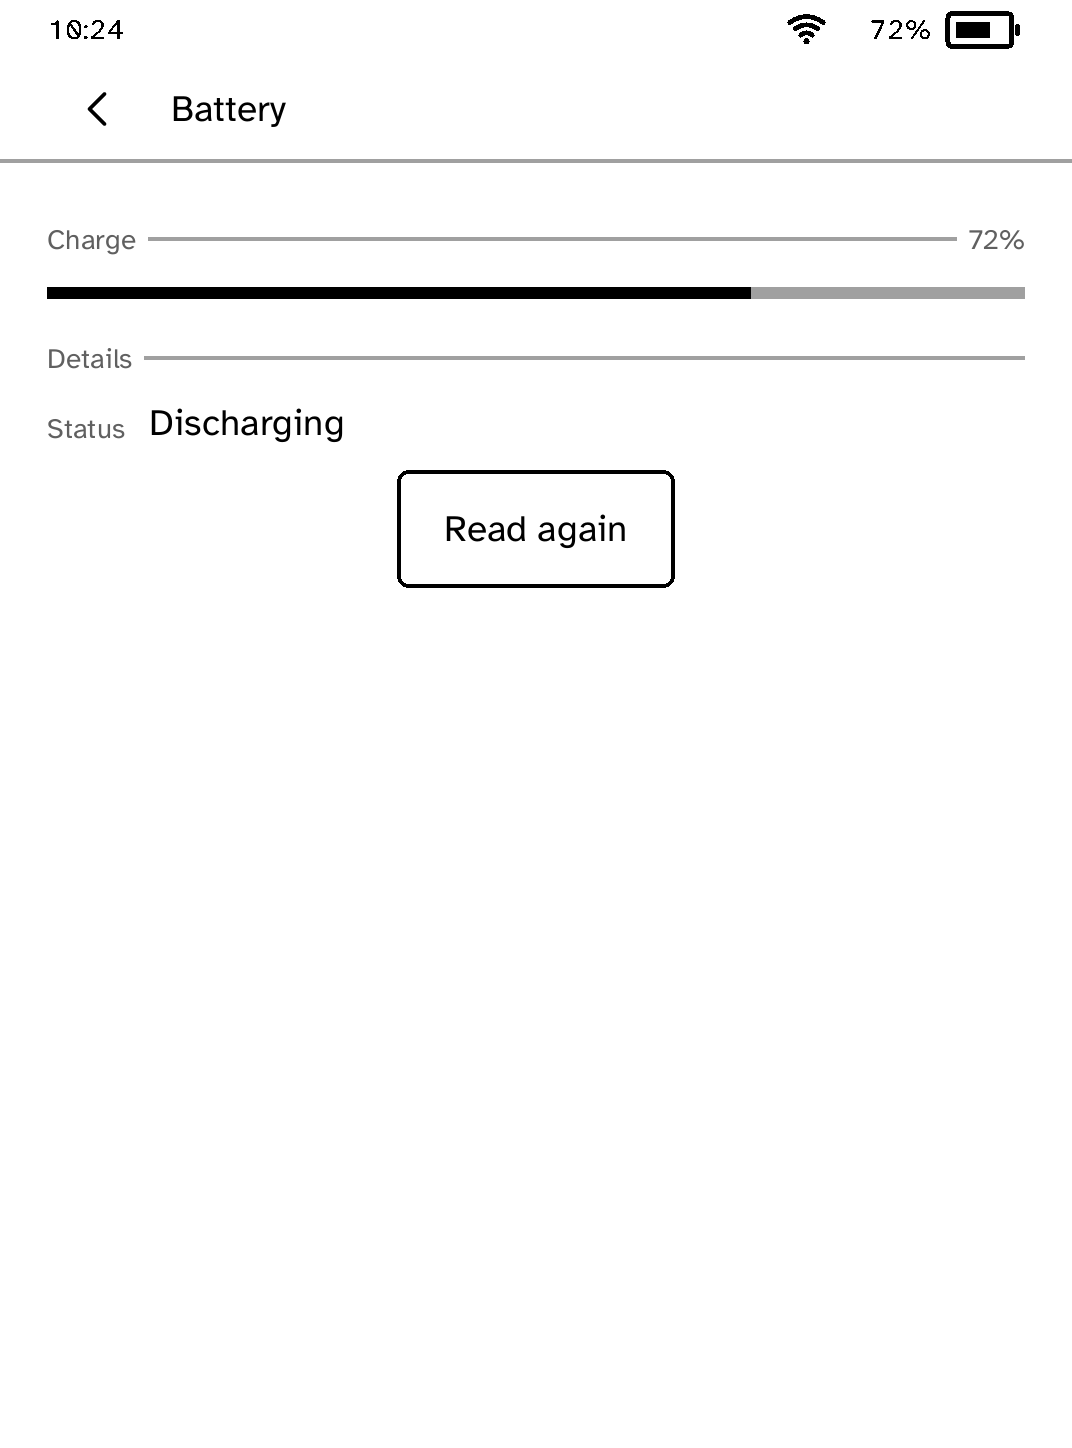
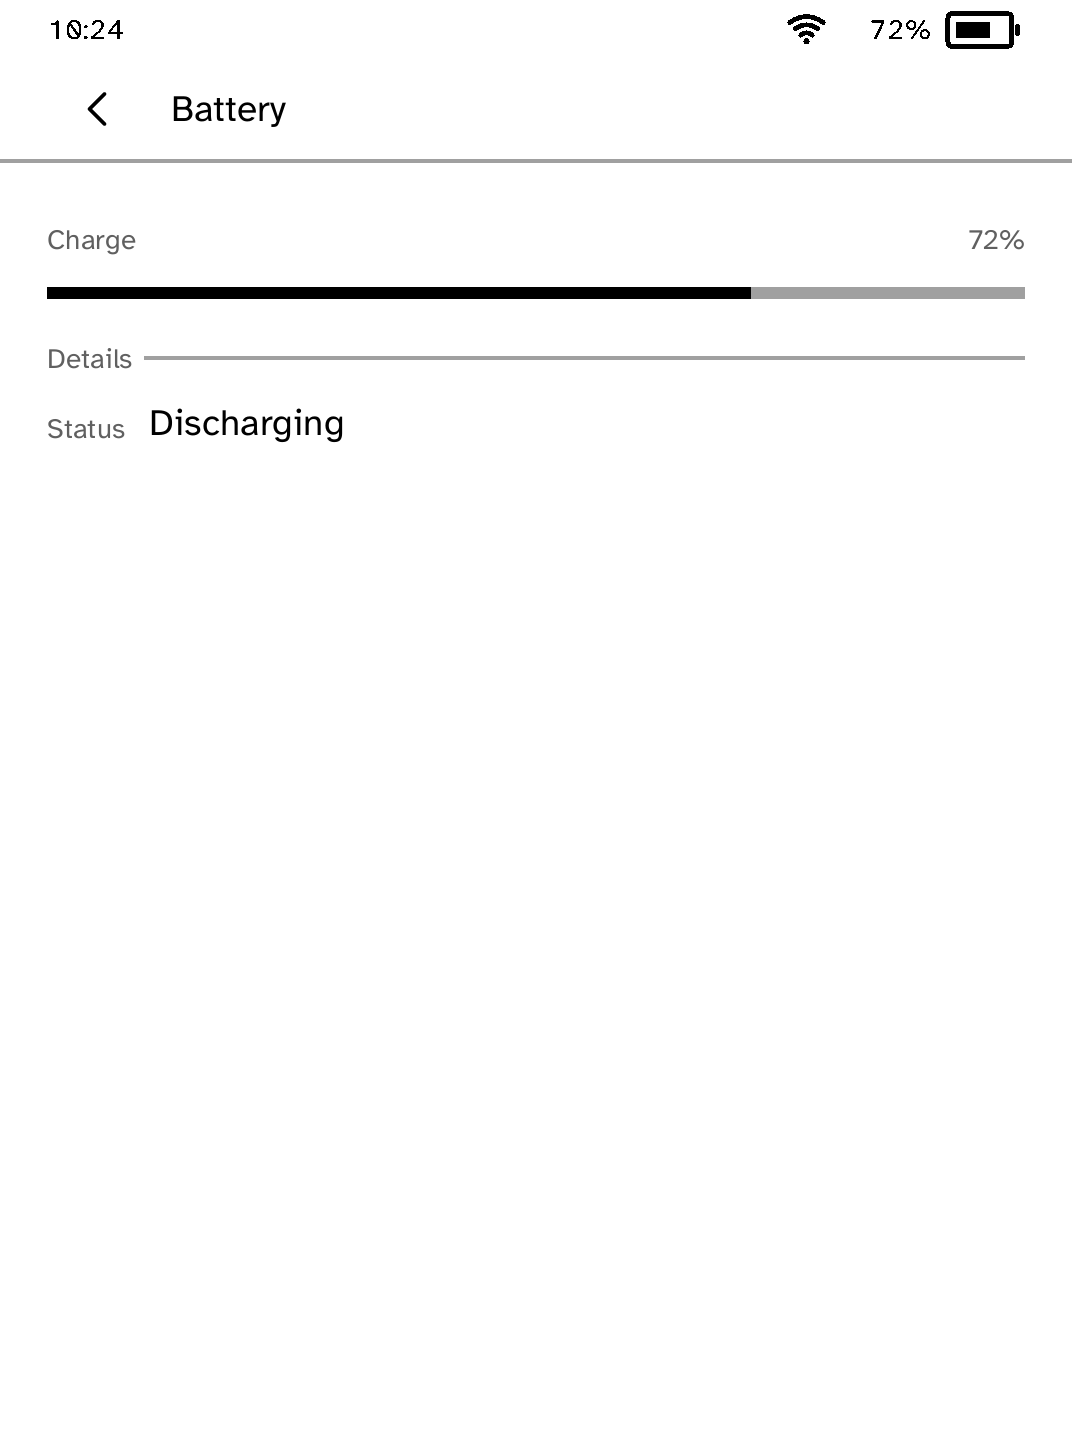
Drop Settings' developer profile line and its needless refresh marks
About listed "Profile SIMULATOR:clara-bw-391", the runtime's own name
for the hardware profile, which says nothing the model and device code
do not. It is left off.

About and Battery both carried a refresh mark in the bar. Nothing on
About changes while it is open, and the battery is now read when its
screen opens and again whenever Settings comes back to the front, so
neither needs one. A reading that failed still offers Read again on
its banner.

Changed region(s): [[0.3694, 0.3108, 0.5849, 0.404], [0.6157, 0.3419, 0.6465, 0.404]]

diff --git a/examples/settings/src/main.rs b/examples/settings/src/main.rs
@@ -1035,13 +1035,13 @@ impl Settings {
     /// reader whose driver is thinner gets a shorter list, which is honest,
     /// rather than a column of dashes.
     fn battery(&self) -> Screen {
-        // Reading again is the bar's refresh mark, as it is in the Store and
-        // Feeds. It was a button centred under the facts, the one thing on
-        // the screen not set from the left, and it moved down whenever the
-        // list grew. A failed reading also carries the way to read again.
+        // No refresh mark in the bar. The gauge is read when this screen
+        // opens and again whenever Settings comes back to the front, so a
+        // mark that read it a third time only asked the owner to do the
+        // reader's job. A reading that failed carries the way to read again
+        // on its banner, where the failure is.
         let mut screen = ScreenBuilder::new("settings-battery")
             .top_bar("Battery")
-            .top_bar_glyph(RESCAN, "Read again", Glyph::Refresh)
             .owns_back(true);
         let trouble = self.banner_for(Topic::Battery);
         if let Some(trouble) = &trouble {
@@ -1116,16 +1116,16 @@ impl Settings {
         if let Some(address) = &self.address {
             facts.push(("Wi-Fi address".to_owned(), address.clone()));
         }
-        let mut support: Vec<(String, String)> = vec![
-            ("Profile".to_owned(), identity.profile_id.clone()),
-            (
-                "Screen".to_owned(),
-                format!(
-                    "{} × {} pixels",
-                    identity.panel_width, identity.panel_height
-                ),
+        // The runtime's own name for the hardware profile is left off. It
+        // is a developer's identifier ("SIMULATOR:clara-bw-391" in the
+        // simulator) that says nothing the model and device code do not.
+        let mut support: Vec<(String, String)> = vec![(
+            "Screen".to_owned(),
+            format!(
+                "{} × {} pixels",
+                identity.panel_width, identity.panel_height
             ),
-        ];
+        )];
         if identity.device_code != 0 {
             support.push(("Device code".to_owned(), identity.device_code.to_string()));
         }
@@ -1186,11 +1186,10 @@ impl Settings {
     }
 
     fn about_page_screen(&self, parts: &[usize], page: usize, pages: usize) -> Screen {
-        // The same refresh mark as Battery, reachable from every page rather
-        // than from the foot of the last one.
+        // No refresh mark: nothing on this page changes while it is open.
+        // A failed read carries Read again on its banner.
         let mut screen = ScreenBuilder::new("settings-about")
             .top_bar("About")
-            .top_bar_glyph(RESCAN, "Read again", Glyph::Refresh)
             .owns_back(true);
         let trouble = self.banner_for(Topic::About);
         if let Some(trouble) = &trouble {
@@ -1578,6 +1577,19 @@ impl KoboApp for Settings {
     /// application running on it, and it wears the colour of the logo.
     fn accent(&self) -> Option<kobo_sdk::Accent> {
         Some(kobo_sdk::Accent::Cobalt)
+    }
+
+    /// The battery screen reads the gauge again whenever Settings comes
+    /// back to the front or the reader wakes, which is what its refresh mark
+    /// used to be pressed for.
+    fn on_foreground(&mut self, context: &mut Context) {
+        if self.view == View::Battery {
+            context.device().read_battery_detail();
+        }
+    }
+
+    fn on_resume(&mut self, context: &mut Context) {
+        self.on_foreground(context);
     }
 
     fn on_start(&mut self, context: &mut Context) {
@@ -2651,7 +2663,6 @@ mod tests {
         let drawn = format!("{:?}", screen.nodes);
         for needle in [
             "Kobo Clara BW",
-            "CLARA_BW_391",
             "391",
             "4.41.23145",
             "5.10.117",
@@ -2703,11 +2714,14 @@ mod tests {
         let issues = screen.validate(&CLARA_BW_METRICS);
         assert!(issues.is_empty(), "{issues:?}");
         let layout = screen.layout_with(&CLARA_BW_METRICS, &Chrome::with_back(true));
-        assert!(layout.rect_of_action(action_id(RESCAN)).is_some());
+        assert!(
+            layout.rect_of_action(action_id(RESCAN)).is_none(),
+            "the battery is read on opening, not from a mark in the bar"
+        );
     }
 
     /// A reader whose driver publishes almost nothing gets a short screen
-    /// rather than a column of dashes, and the button stays reachable.
+    /// rather than a column of dashes.
     #[test]
     fn a_gauge_that_publishes_almost_nothing_says_so_rather_than_showing_zeroes() {
         let settings = Settings {
@@ -2722,7 +2736,51 @@ mod tests {
         let issues = screen.validate(&CLARA_BW_METRICS);
         assert!(issues.is_empty(), "{issues:?}");
         let layout = screen.layout_with(&CLARA_BW_METRICS, &Chrome::with_back(true));
-        assert!(layout.rect_of_action(action_id(RESCAN)).is_some());
+        assert!(
+            layout.rect_of_action(action_id(RESCAN)).is_none(),
+            "the battery is read on opening, not from a mark in the bar"
+        );
+    }
+
+    #[test]
+    fn the_battery_is_read_again_when_settings_comes_back_to_the_front() {
+        let mut settings = Settings {
+            view: super::View::Battery,
+            ..Settings::default()
+        };
+        use kobo_sdk::KoboApp;
+        let mut context = kobo_sdk::Context::default();
+        settings.on_foreground(&mut context);
+        assert!(context.take_commands().iter().any(|command| matches!(
+            command,
+            kobo_sdk::Command::Device(kobo_sdk::DeviceRequest::ReadBatteryDetail)
+        )));
+        settings.view = super::View::Home;
+        settings.on_foreground(&mut context);
+        assert!(context.take_commands().is_empty());
+    }
+
+    #[test]
+    fn about_names_the_reader_without_the_runtime_profile_or_a_refresh_mark() {
+        let mut settings = Settings::default();
+        settings.identity = Some(DeviceIdentity {
+            profile_id: "SIMULATOR:clara-bw-391".to_owned(),
+            model: "Kobo Clara BW".to_owned(),
+            device_code: 391,
+            firmware: "4.41.23145".to_owned(),
+            kernel: "5.10.117".to_owned(),
+            runtime_version: "0.3.0".to_owned(),
+            panel_width: 1072,
+            panel_height: 1448,
+        });
+        let screen = settings.about();
+        let drawn = format!("{screen:?}");
+        assert!(!drawn.contains("SIMULATOR"), "{drawn}");
+        assert!(!drawn.contains("\"Profile\""), "{drawn}");
+        assert!(screen
+            .top_bar
+            .as_ref()
+            .is_some_and(|bar| bar.actions.is_empty()));
     }
 
     #[test]
@@ -3257,16 +3315,12 @@ mod tests {
                     runner.action(action_id(MORE));
                 }
             }
-            assert_eq!(
-                rescans, pages,
-                "{metrics:?}: Read again in the bar of every page"
-            );
+            assert_eq!(rescans, 0, "{metrics:?}: no refresh mark on About");
             for fact in [
                 "Kobo Clara BW",
                 "0.3.0",
                 "4.41.23145",
                 "192.168.1.23",
-                "CLARA_BW_391",
                 "1072 × 1448 pixels",
                 "391",
                 "5.10.117",
